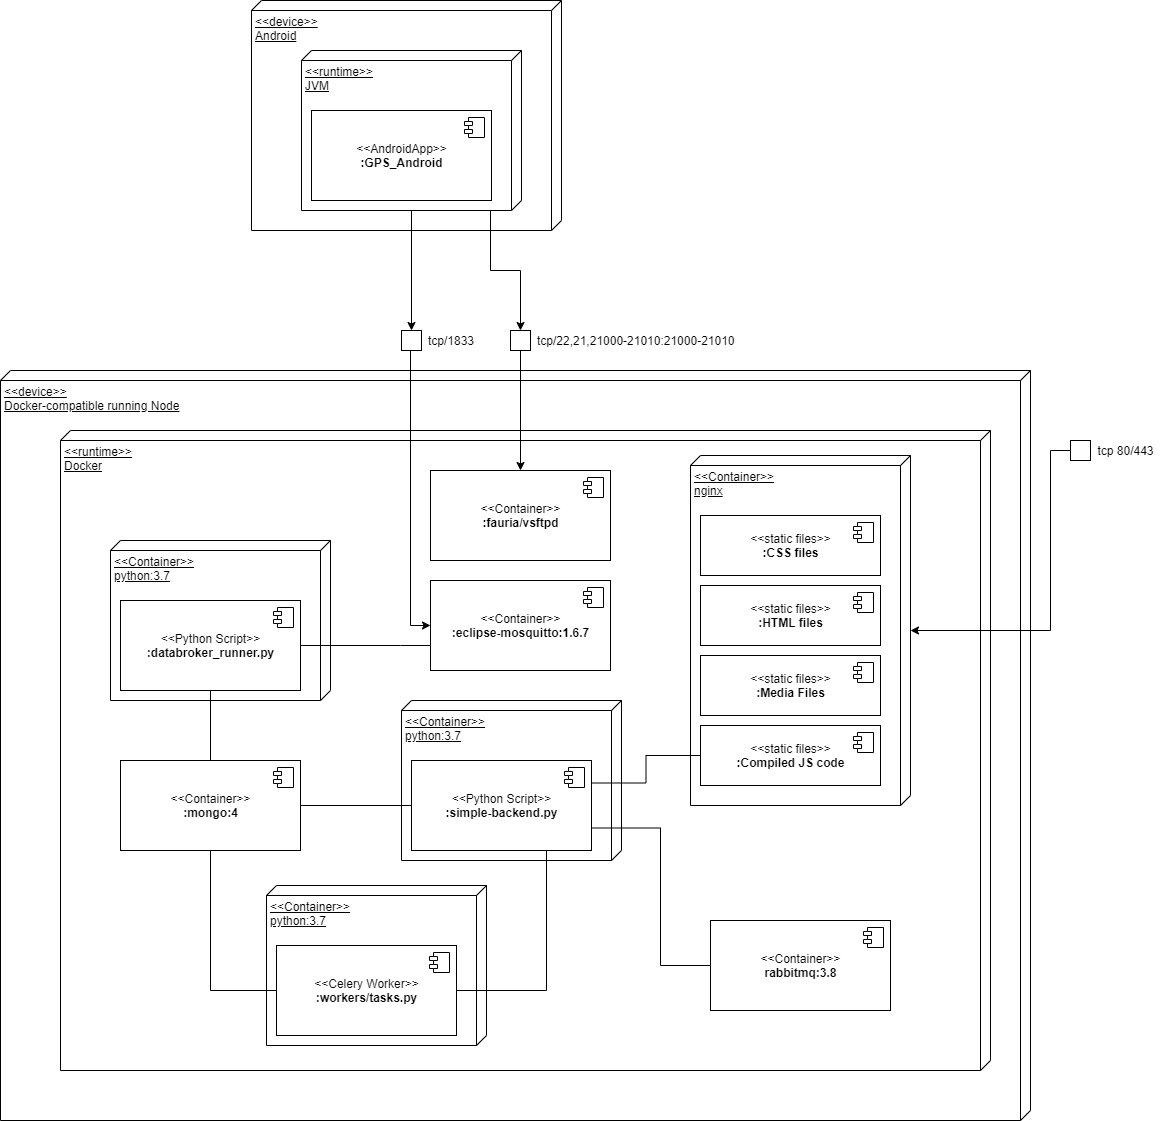
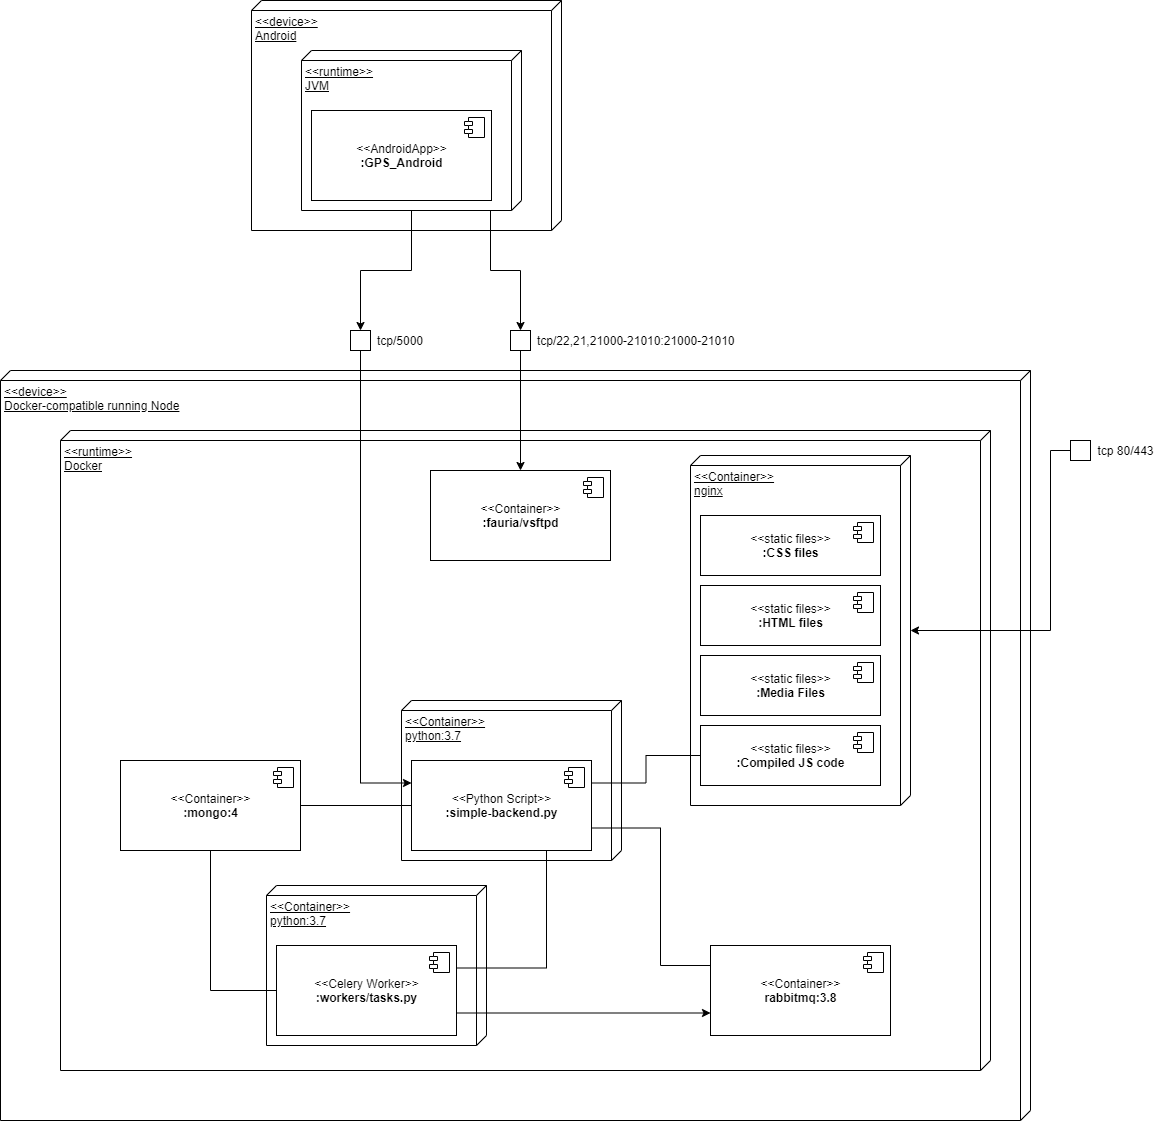
release/0.1. Mention in doc schemes that we don't use MQTT Broker

diff --git a/docs/09_04_mqtt_justification.md b/docs/09_04_mqtt_justification.md
@@ -10,7 +10,6 @@ During the group study solution design it became clear our system needs **a medi
 
 One of the initial requirements were to use UDP protocol.
 
-![mqtt-justification](mqtt-justification.png){ width=50% }
 
 ### Decision
 
@@ -27,6 +26,8 @@ First, we used MQTT protocol because it well-suited for IoT-based application. M
 - fitting to criterion above
 - reliability
 - lightweight
+
+![mqtt-justification](mqtt-justification.png){width=50%}
 
 However, the results in the first 3 experimental attempts have shown that MQTT is not adapted for the system. Consequently, we switched to HTTP protocol to send messages directly to backend server in GPS_Tracker.
  

diff --git a/docs/components/README.md b/docs/components/README.md
@@ -10,7 +10,7 @@ In this section, we describe our components of the system, their functionality, 
 
 - Client Telemetry Data Sender -  [ClientApp](ClientApp.md)
 - Client Message Broker -  [MessageBroker](MessageBroker.md) 
-- Medium Data Broker - [DataBroker](DataBroker.md) 
+- Medium Data Broker (deprecated, use direct pushing to DataBackend via HTTP) - [DataBroker](DataBroker.md) 
 - Storage Component - [Storage](Storage.md)
 - Telemetry Data Analyzer - [Analyzer](Analyzer.md)
 - Integration Backend Component for Data Access - [DataBackend](DataBackend.md)

diff --git a/docs/05_01_building_blocks.md b/docs/05_01_building_blocks.md
@@ -44,7 +44,7 @@ The framework highly utilize already completed components and protocols. The mos
 
 - Analyzer
 - MessageBroker
-- DataBroker
+- DataBroker (deprecated, use direct pushing to DataBackend via HTTP)
 
 These components currently implemented in Python. Some code regarding placement optimization algorithms are private and provided to the production environment as installation packages of code written in Python as well.
 
